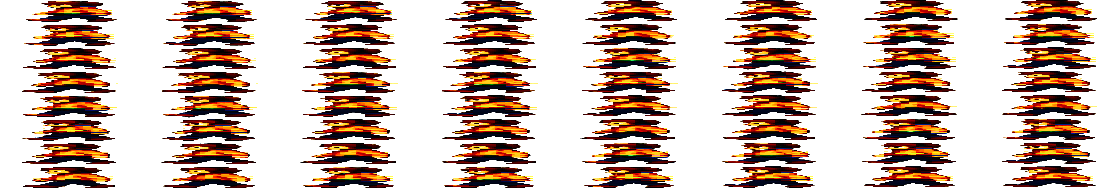
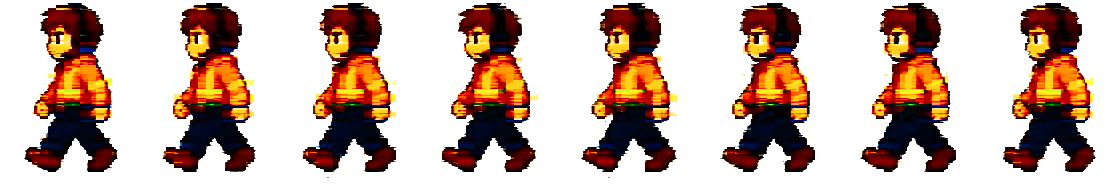
Apply exec_tool script file changes

diff --git a/src/game/art/donSpriteAnimation.js b/src/game/art/donSpriteAnimation.js
@@ -1,43 +1,56 @@
 // Dispatch Don animation — 9-frame idle atlases (front: frames 0-6 breathing
-// variants, 7 radio-to-ear, 8 pointing/directing), 9-frame side walk
-// (right-facing, mirrored for left), and a 4-frame signal atlas (radio-up,
-// radio-up variant, stop-hand x2) held while his 'Escalate to Field Crew'
-// special is active. Pure frame selection for testability.
-export const createDonAnimation=()=>({side:'right',vert:'down',frame:0,clock:0,moving:false,hurt:0,signal:0});
+// variants, 7 radio-to-ear, 8 pointing/directing), a 9-frame right-facing side
+// walk, an 8-frame TRUE left-facing walk (walk-left.png, drawn unmirrored), a
+// 4-frame signal atlas (radio-up, radio-up variant, stop-hand x2) for idle
+// gestures, and the 8-frame 'Escalate to Field Crew' sequence (crew.png,
+// 4 poses per row: the crew arrives, then Don directs them) played once
+// across his special timer. Pure frame selection for testability.
+export const createDonAnimation=()=>({side:'right',vert:'down',frame:0,clock:0,moving:false,hurt:0,signal:0,crewClock:0});
 export function updateDonAnimation(state,dx,dy,dt,definition){
   state.hurt=Math.max(0,state.hurt-dt);
+  if(state.signal>0)state.crewClock+=dt;else state.crewClock=0;
   const moving=Math.abs(dx)+Math.abs(dy)>.001;
   if(moving){
     if(Math.abs(dx)>Math.abs(dy))state.side=dx<0?'left':'right';
     else if(dy)state.vert=dy<0?'up':'down';
     if(!state.moving)state.clock=0;
     state.moving=true;state.clock+=dt;
-    state.frame=Math.floor(state.clock*(definition.walkFps||10))%definition.columns;
+    const cols=state.side==='left'?(definition.walkLeftColumns||definition.columns):definition.columns;
+    state.frame=Math.floor(state.clock*(definition.walkFps||10))%cols;
     return;
   }
   if(state.moving){state.moving=false;state.clock=0}
   state.clock+=dt;
 }
+// Special: while the crew timer runs, the escalation sequence plays once —
+// one pose per second (crew arrives, then the directing poses), holding the
+// final commanding pose until the special ends.
 // Idle: seven breathing frames at idleFps, then the radio-to-ear beat, the
 // pointing beat, and a stop-hand beat from the signal atlas, then repeat.
 // Horizontal movement walks in profile; vertical movement keeps the last
 // profile side. Front/back idle views follow the last vertical direction.
 export function donFrame(art,state){
   const d=art.definition;
-  if(state.signal>0)return {image:art.signal,sx:0,sy:0,mirror:false};
-  if(state.moving)return {image:art.walk,sx:state.frame*d.cellW,sy:0,mirror:state.side==='left'};
+  if(state.signal>0){
+    const frame=Math.min(7,Math.floor(state.crewClock));
+    return {image:art.crew,sx:(frame%4)*d.crewFrameW,sy:Math.floor(frame/4)*d.crewFrameH,frameW:d.crewFrameW,frameH:d.crewFrameH,mirror:false};
+  }
+  if(state.moving){
+    if(state.side==='left')return {image:art.walkLeft,sx:state.frame*d.walkLeftFrameW,sy:0,frameW:d.walkLeftFrameW,frameH:d.cellH,mirror:false};
+    return {image:art.walk,sx:state.frame*d.cellW,sy:0,frameW:d.cellW,frameH:d.cellH,mirror:true};
+  }
   const idleSpan=7/(d.idleFps||5),hold=d.gestureHold||.8,t=state.clock%(idleSpan+3*hold);
-  if(t<idleSpan)return {image:state.vert==='up'?art.back:art.atlas,sx:Math.floor(t*(d.idleFps||5))*d.cellW,sy:0,mirror:false};
+  if(t<idleSpan)return {image:state.vert==='up'?art.back:art.atlas,sx:Math.floor(t*(d.idleFps||5))*d.cellW,sy:0,frameW:d.cellW,frameH:d.cellH,mirror:false};
   const step=Math.floor((t-idleSpan)/hold);
-  if(step===0)return {image:art.atlas,sx:7*d.cellW,sy:0,mirror:false};
-  if(step===1)return {image:art.atlas,sx:8*d.cellW,sy:0,mirror:false};
-  return {image:art.signal,sx:2*d.signalFrameW,sy:0,mirror:false};
+  if(step===0)return {image:art.atlas,sx:7*d.cellW,sy:0,frameW:d.cellW,frameH:d.cellH,mirror:false};
+  if(step===1)return {image:art.atlas,sx:8*d.cellW,sy:0,frameW:d.cellW,frameH:d.cellH,mirror:false};
+  return {image:art.signal,sx:2*d.signalFrameW,sy:0,frameW:d.signalFrameW,frameH:d.cellH,mirror:false};
 }
 // Foot-anchored like the Oracle: the collision point sits at the character's feet.
 export function drawDonSprite(ctx,art,state,x,y){
-  const d=art.definition,f=donFrame(art,state),h=d.worldSize,w=h*d.cellW/d.cellH;
+  const d=art.definition,f=donFrame(art,state),h=d.worldSize,fw=f.frameW||d.cellW,fh=f.frameH||d.cellH,w=h*fw/fh;
   const img=state.hurt>0&&art.hurt&&f.image===art.atlas?art.hurt:f.image;
   const previousSmoothing=ctx.imageSmoothingEnabled;ctx.imageSmoothingEnabled=false;
-  ctx.drawImage(img,f.sx,f.sy,d.cellW,d.cellH,Math.round(x-w*d.anchorX),Math.round(y-h*d.anchorY),Math.round(w),h);
+  ctx.drawImage(img,f.sx,f.sy,fw,fh,Math.round(x-w*d.anchorX),Math.round(y-h*d.anchorY),Math.round(w),h);
   ctx.imageSmoothingEnabled=previousSmoothing;
 }

diff --git a/src/game/art/characterSprites.js b/src/game/art/characterSprites.js
@@ -10,11 +10,12 @@ export const CHARACTER_SPRITES=Object.freeze({oracle:Object.freeze({
   directions:{down:0,left:64,right:128,up:192},idleRow:256
 }),don:Object.freeze({
   atlas:'/assets/don/idle-front.png',portrait:'/assets/don/portrait.png',manifest:'/assets/don/animation.json',hurtTint:'rgba(251,113,133,.6)',
-  extras:[['back','/assets/don/idle-back.png',1170,190],['walk','/assets/don/walk-side.png',1170,190],['signal','/assets/don/signal-poses.png',520,190]],
+  extras:[['back','/assets/don/idle-back.png',1170,190],['walk','/assets/don/walk-side.png',1170,190],['signal','/assets/don/signal-poses.png',520,190],['walkLeft','/assets/don/walk-left.png',1120,190],['crew','/assets/don/crew.png',1024,372]],
   sources:{atlas:source+'cd24a6944_don_idle_front.png',portrait:source+'0a52d8d76_don-portrait.png',back:source+'b3e497e7f_don_idle_back.png',walk:source+'54be9d69f_don_walk_side.png',signal:source+'017a98330_don_signal_poses.png'},
   atlasW:1170,atlasH:190,cellW:130,cellH:190,columns:9,rows:1,idleFps:5,walkFps:10,gestureHold:.8,signalFrameW:130,
+  walkLeftColumns:8,walkLeftFrameW:140,crewFrameW:256,crewFrameH:186,
   worldSize:52,anchorX:.5,anchorY:.9,portraitW:127,portraitH:193,
-  manifestSpec:{frameWidth:130,frameHeight:190,'idleFront.columns':9,'idleBack.columns':9,'walkSide.columns':9,'walkSide.facing':'right','signalPoses.columns':4,fps:8}
+  manifestSpec:{frameWidth:130,frameHeight:190,'idleFront.columns':9,'idleBack.columns':9,'walkSide.columns':9,'walkSide.facing':'right','signalPoses.columns':4,'walkLeft.columns':8,'walkLeft.frameWidth':140,'walkLeft.frameHeight':190,'crew.columns':4,'crew.rows':2,'crew.frameWidth':256,'crew.frameHeight':186,fps:8}
 })});
 export const characterSprite=id=>CHARACTER_SPRITES[id] || null;
 // Lag Sprite enemy — same definition/manifest/anchor convention as the character sprites,

diff --git a/src/game/combat/signatures.js b/src/game/combat/signatures.js
@@ -6,7 +6,7 @@ export function activateSignature(run,p,api){
     case 'trace':for(let i=0;i<12;i++)api.launch({damage:90,range:700,rangeProfile:'trace',pattern:'pierce',color:'#22d3ee'},i*Math.PI/6);return 0;
     case 'deepclean':api.heal(45);api.area(260,55,'#34d399');return 0;
     case 'fortify':return api.turret({mode:'pellet',index:0,life:8,damage:30,range:340,fire:.4,color:'#facc15'})?0:null;
-    case 'crew':{let placed=0;for(let i=0;i<4;i++)if(api.turret({mode:'helper',index:i,life:8,damage:18,range:280,fire:.65,color:'#38bdf8'}))placed++;return placed?0:null}
+    case 'crew':{let placed=0;for(let i=0;i<4;i++)if(api.turret({mode:'helper',index:i,life:8,damage:18,range:280,fire:.65,color:'#38bdf8'}))placed++;return placed?8:null} // 8s timer also drives the crew escalation sprite
     case 'frenzy':api.area(120,60,'#c084fc');return 5;
     case 'meeting':p.inv=Math.max(p.inv,2.5);return 2.5;
     case 'barrier':return api.barrier()?0:null;
